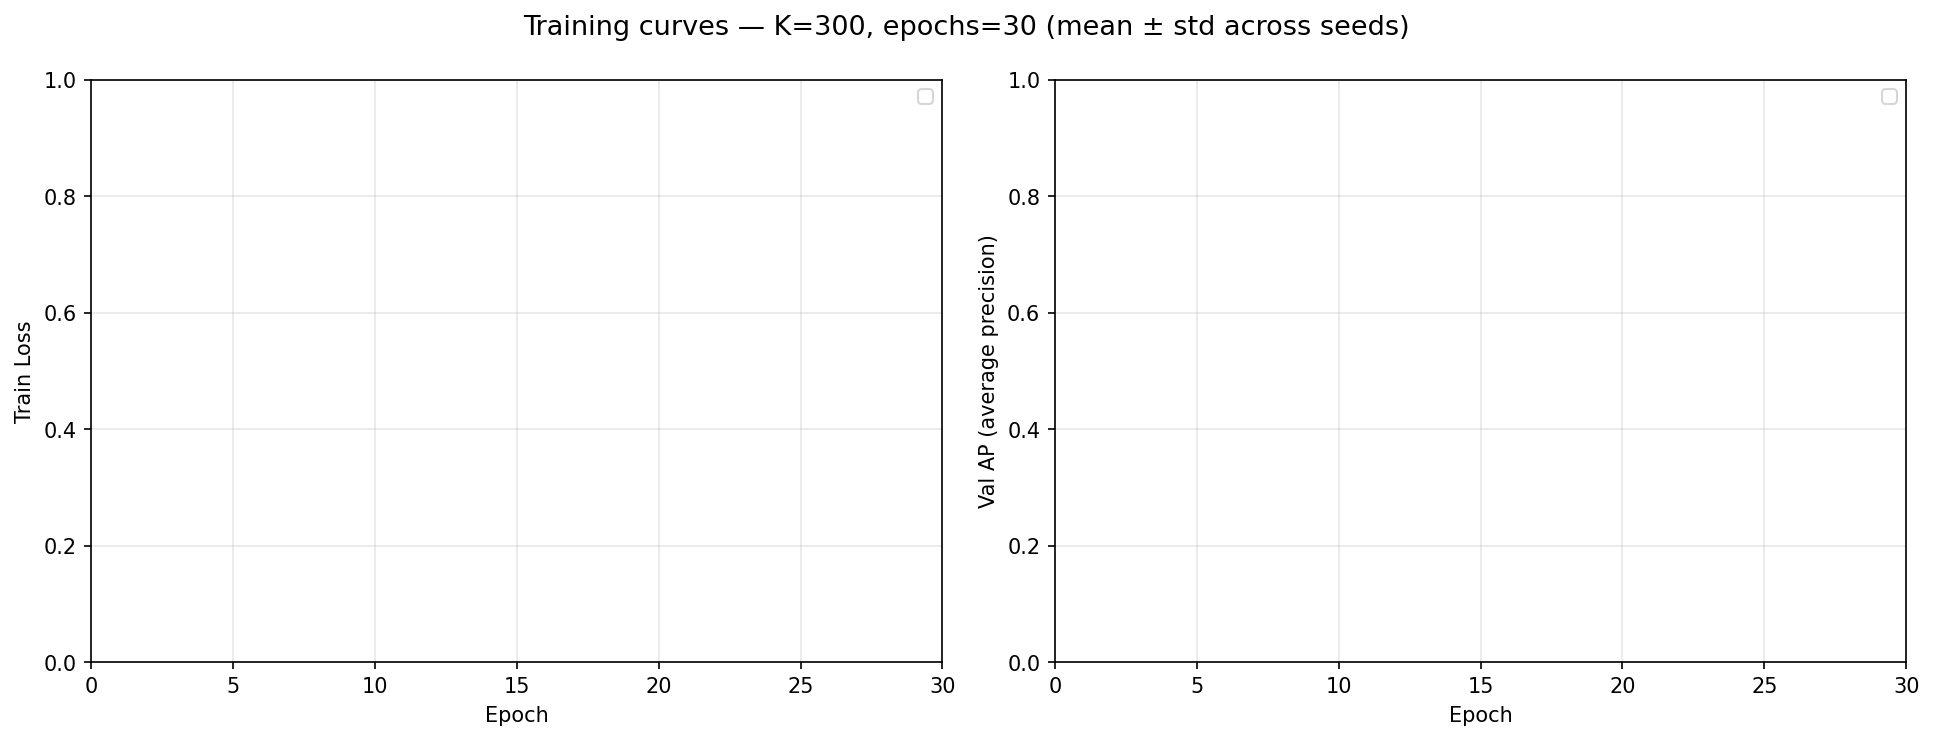
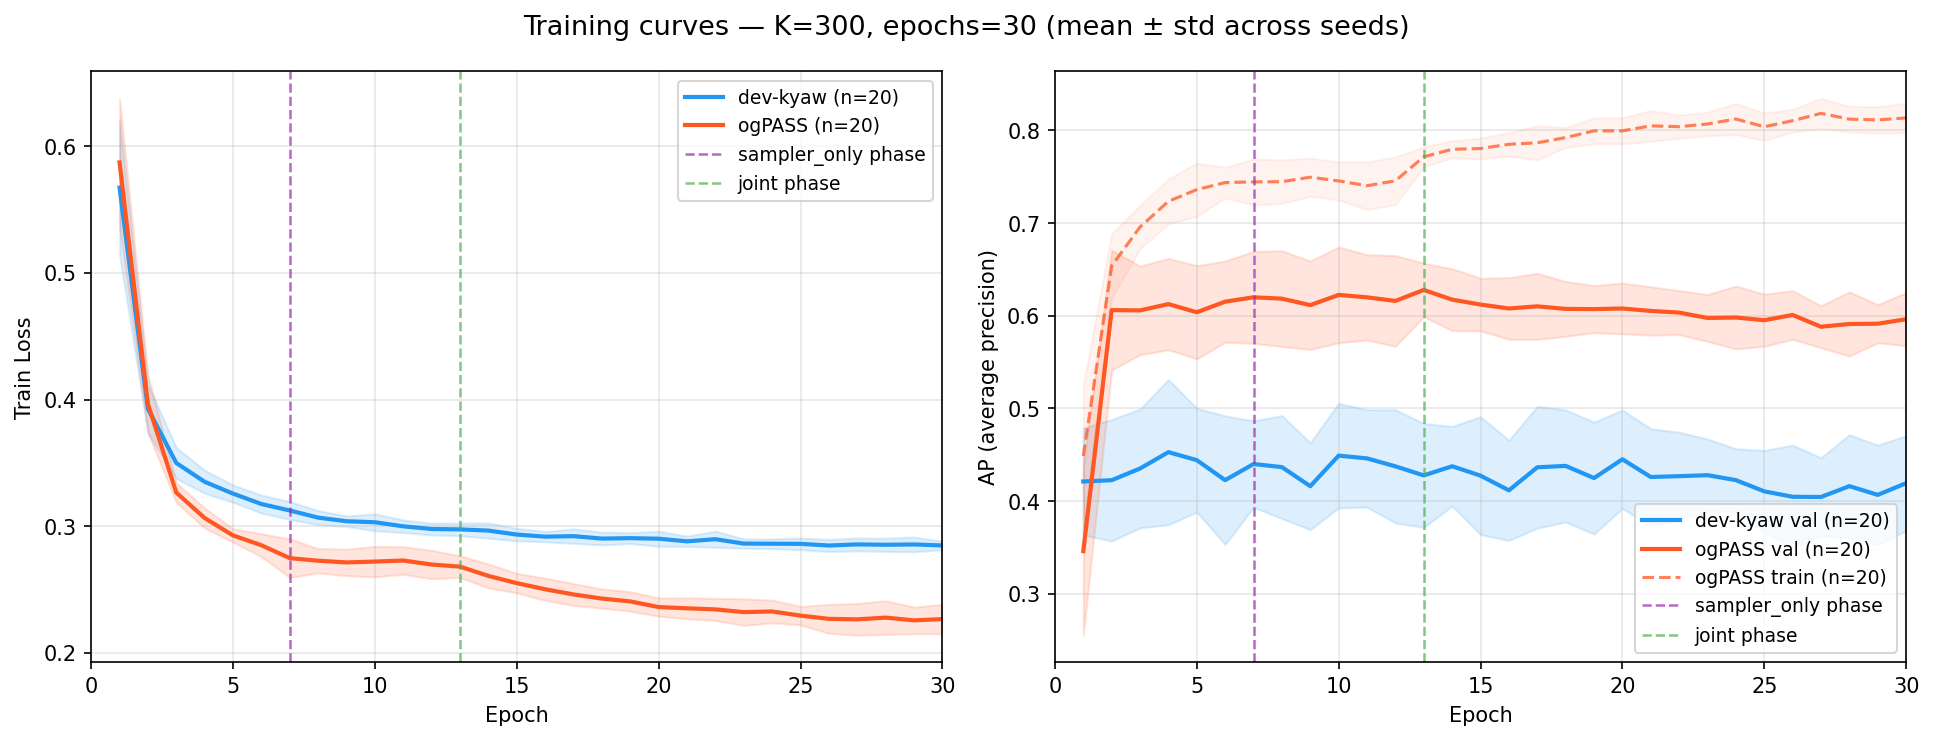
Add K=300 ep30 results: training curves and summary (n=20 seeds)

diff --git a/experiment_results_baseline_fix.md b/experiment_results_baseline_fix.md
@@ -551,12 +551,24 @@ _ogPASS 3-phase: warmup=6, sampler_only=6, joint=18._
 
 _ogPASS 3-phase: warmup=6, sampler_only=6, joint=18._
 
-### Aggregated (mean ± std over 0 seeds)
+### Aggregated (mean ± std over 20 seeds)
 
 | branch | AP ↑ | AUC ↑ | F1 ↑ | Acc ↑ |
 |---|---|---|---|---|
-| dev-kyaw (n=0) | — | — | — | — |
-| ogPASS (n=0) | — | — | — | — |
+| dev-kyaw (n=20) | 0.4406 ± 0.0634 | 0.7986 ± 0.0314 | 0.4803 ± 0.0585 | 0.7143 ± 0.0552 |
+| ogPASS (n=20) | 0.4212 ± 0.0519 | 0.8202 ± 0.0158 | 0.3650 ± 0.1932 | 0.7786 ± 0.0454 |
+
+### Δ (ogPASS − dev-kyaw) — positive is better for all metrics
+
+| ΔAP | ΔAUC | ΔF1 | ΔAcc |
+|---|---|---|---|
+| -0.0194 | +0.0216 | -0.1153 | +0.0643 |
+
+### Variance ratio (ogPASS std ÷ dev-kyaw std — lower = ogPASS more stable)
+
+| AP | AUC | F1 | Acc |
+|---|---|---|---|
+| 0.82× | 0.50× | 3.30× | 0.82× |
 
 ### Per-seed
 
@@ -564,10 +576,50 @@ _ogPASS 3-phase: warmup=6, sampler_only=6, joint=18._
 
 | seed | AP | AUC | F1 | Acc |
 |---:|---:|---:|---:|---:|
+| 0 | 0.3927 | 0.7852 | 0.4186 | 0.6212 |
+| 1 | 0.4157 | 0.8246 | 0.5707 | 0.7617 |
+| 2 | 0.3054 | 0.7280 | 0.4868 | 0.6515 |
+| 3 | 0.4098 | 0.8242 | 0.5405 | 0.7190 |
+| 4 | 0.3537 | 0.7985 | 0.5011 | 0.6791 |
+| 5 | 0.4384 | 0.7701 | 0.3391 | 0.7369 |
+| 6 | 0.4710 | 0.8434 | 0.5672 | 0.7603 |
+| 7 | 0.4628 | 0.7897 | 0.4468 | 0.7851 |
+| 8 | 0.3902 | 0.8120 | 0.4919 | 0.7410 |
+| 9 | 0.4173 | 0.8048 | 0.4685 | 0.7094 |
+| 10 | 0.5119 | 0.8228 | 0.5333 | 0.7107 |
+| 11 | 0.4689 | 0.7997 | 0.4811 | 0.6405 |
+| 12 | 0.4169 | 0.7825 | 0.3857 | 0.8113 |
+| 13 | 0.4994 | 0.8270 | 0.5258 | 0.7466 |
+| 14 | 0.4669 | 0.7962 | 0.4773 | 0.7466 |
+| 15 | 0.5322 | 0.8182 | 0.4781 | 0.7865 |
+| 16 | 0.4388 | 0.7725 | 0.4124 | 0.6860 |
+| 17 | 0.4039 | 0.7306 | 0.4878 | 0.6529 |
+| 18 | 0.5877 | 0.8411 | 0.5192 | 0.7066 |
+| 19 | 0.4280 | 0.8001 | 0.4743 | 0.6336 |
 
 #### ogPASS
 
 | seed | AP | AUC | F1 | Acc |
 |---:|---:|---:|---:|---:|
+| 0 | 0.3822 | 0.8055 | 0.2280 | 0.7948 |
+| 1 | 0.3643 | 0.7968 | 0.4908 | 0.7342 |
+| 2 | 0.4877 | 0.8372 | 0.5043 | 0.6832 |
+| 3 | 0.3761 | 0.8029 | 0.5013 | 0.7452 |
+| 4 | 0.4139 | 0.8289 | 0.3801 | 0.8113 |
+| 5 | 0.4137 | 0.8297 | 0.5424 | 0.7397 |
+| 6 | 0.4543 | 0.8418 | 0.4944 | 0.8140 |
+| 7 | 0.4336 | 0.8190 | 0.4487 | 0.8003 |
+| 8 | 0.3813 | 0.8219 | 0.5646 | 0.8003 |
+| 9 | 0.4264 | 0.8260 | 0.0155 | 0.8251 |
+| 10 | 0.4017 | 0.8326 | 0.3860 | 0.8072 |
+| 11 | 0.3629 | 0.7973 | 0.1091 | 0.7975 |
+| 12 | 0.3896 | 0.8204 | 0.5271 | 0.7231 |
+| 13 | 0.3690 | 0.7917 | 0.3739 | 0.8017 |
+| 14 | 0.4250 | 0.8269 | 0.0000 | 0.8237 |
+| 15 | 0.4032 | 0.8291 | 0.0154 | 0.8237 |
+| 16 | 0.4910 | 0.8165 | 0.4640 | 0.8154 |
+| 17 | 0.5664 | 0.8507 | 0.5080 | 0.7039 |
+| 18 | 0.4062 | 0.8085 | 0.2295 | 0.8058 |
+| 19 | 0.4754 | 0.8203 | 0.5167 | 0.7218 |
 
 <!-- END SWEEP n300_ep30 -->
